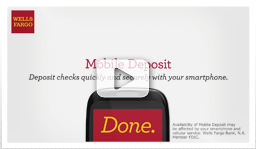
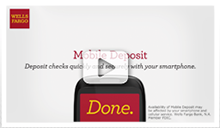
make little image tweaks

diff --git a/app/index.html b/app/index.html
@@ -29,7 +29,7 @@
             <div id="Pics" class="scroll">
                 <div class="bkgrs">
                     <img src="./images/p1.png" style="left: 45%;">
-                    <img src="./images/p2.jpg" style="left: 35%;">
+                    <img src="./images/p2.jpg" style="left: 30%;">
                     <img src="./images/p3.jpg" style="left: 10%;">
                     <img src="./images/p4.jpg" style="left: 30%;">
                     <img src="./images/p5.jpg" style="left: 15%;">
